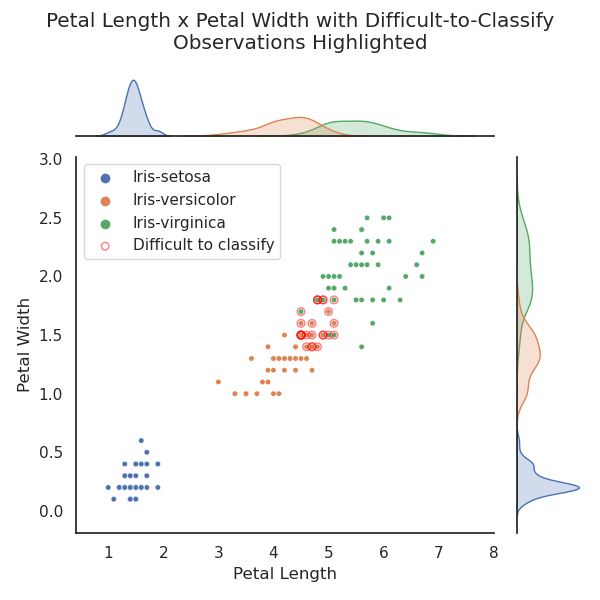
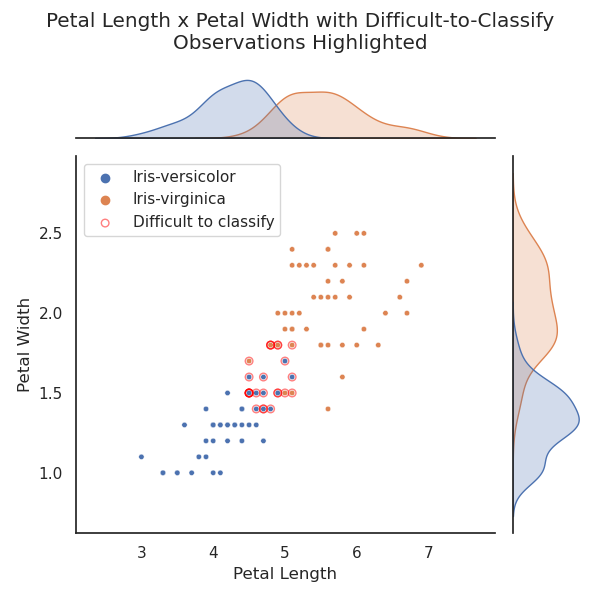
removed I. setosa from jointplots

diff --git a/analysis.py b/analysis.py
@@ -122,8 +122,11 @@ def main():
                      (iris["Petal Width"] >= 1.4) & 
                      (iris["Petal Width"] <= 1.8)]
 
+    # Remove easily classified I. setosa from dataframe
+    iris_sub = iris[iris["class"].isin(["Iris-virginica", "Iris-versicolor"])]
+
     # Generate Petal scatterplot
-    scatterplot(data=iris, 
+    scatterplot(data=iris_sub, 
                 x="Petal Length", 
                 y="Petal Width", 
                 overlay={"x": iris_rule["Petal Length"],
@@ -136,7 +139,7 @@ def main():
                 {"Classification Petal": "![Classification Petal](" + "output/scatter_petal.png" + ")"})
 
     # Generate Sepal scatterplot
-    scatterplot(data=iris, 
+    scatterplot(data=iris_sub, 
                 x="Sepal Length", 
                 y="Sepal Width", 
                 overlay={"x": iris_rule["Sepal Length"],
@@ -158,8 +161,11 @@ def main():
                      (iris["Petal Width"] >= 1.4) & 
                      (iris["Petal Width"] <= 1.8)]
 
+    # Update Iris_sub
+    iris_sub = iris[iris["class"].isin(["Iris-virginica", "Iris-versicolor"])]
+
     # Plot areas
-    scatterplot(data=iris, 
+    scatterplot(data=iris_sub, 
                 x="Petal Area", 
                 y="Sepal Area", 
                 overlay={"x": iris_rule["Petal Area"],
